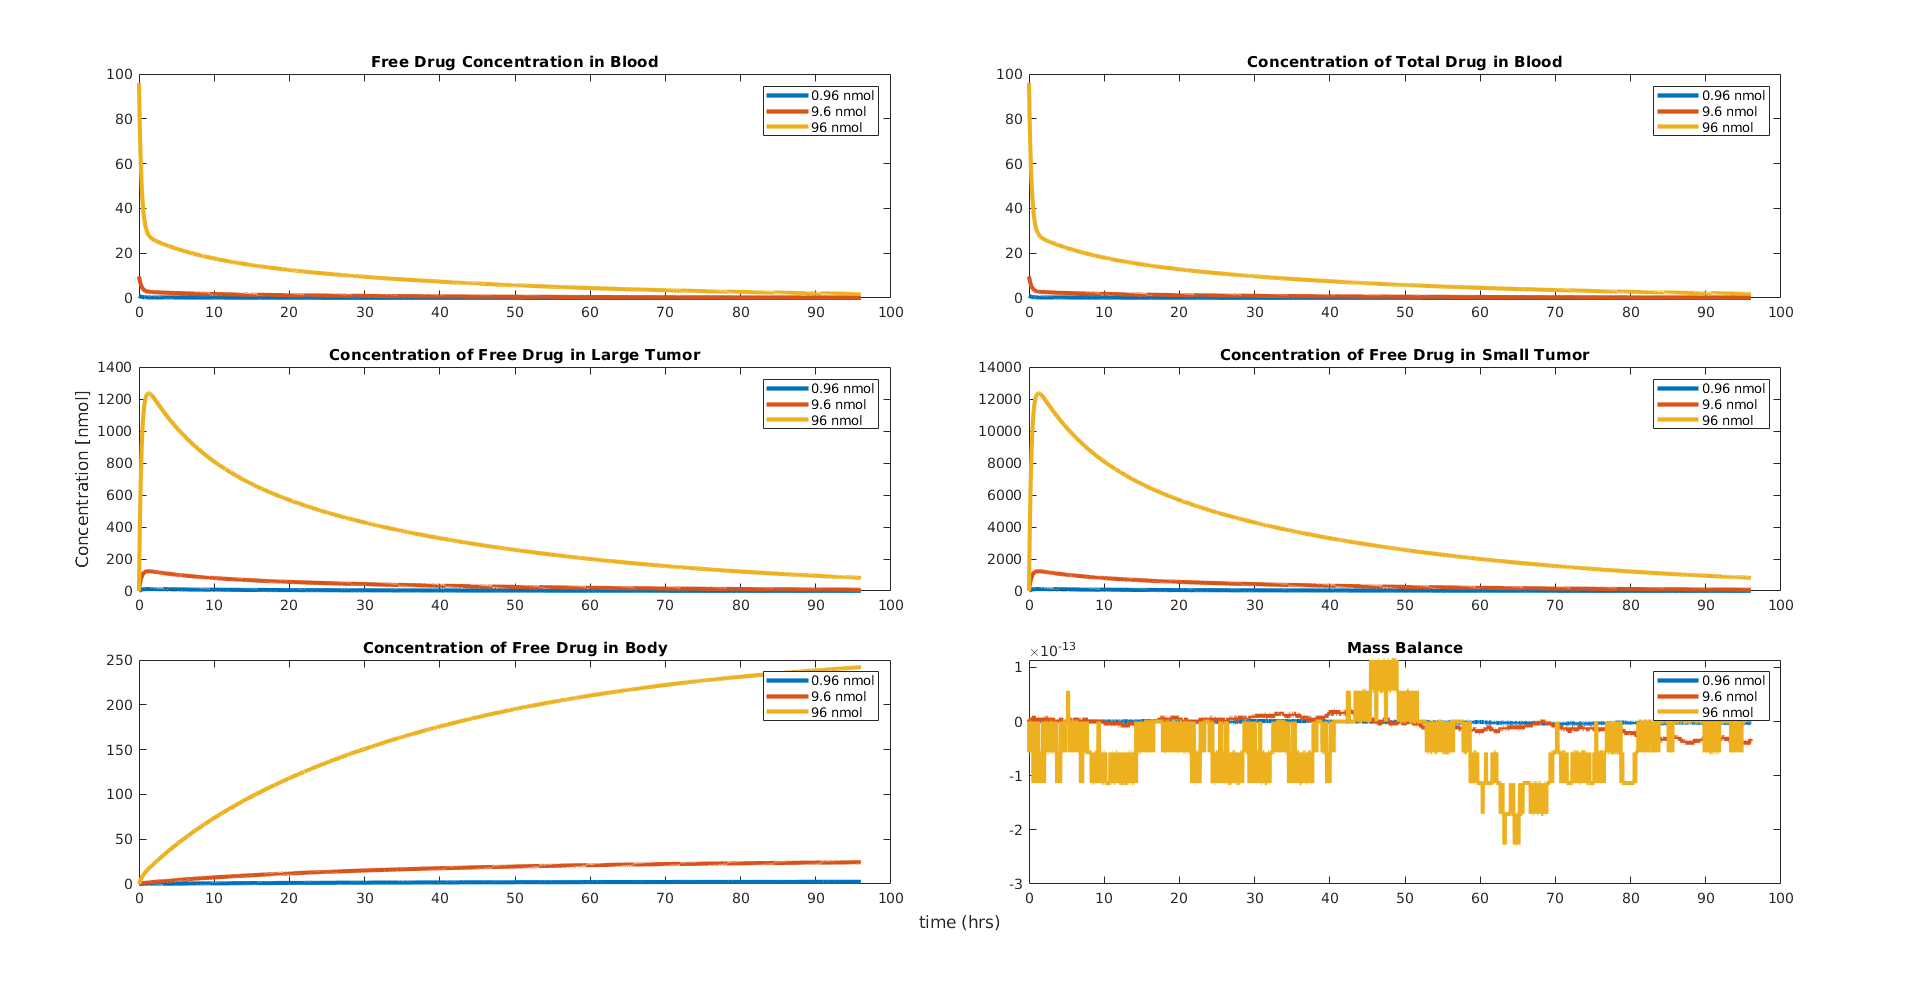
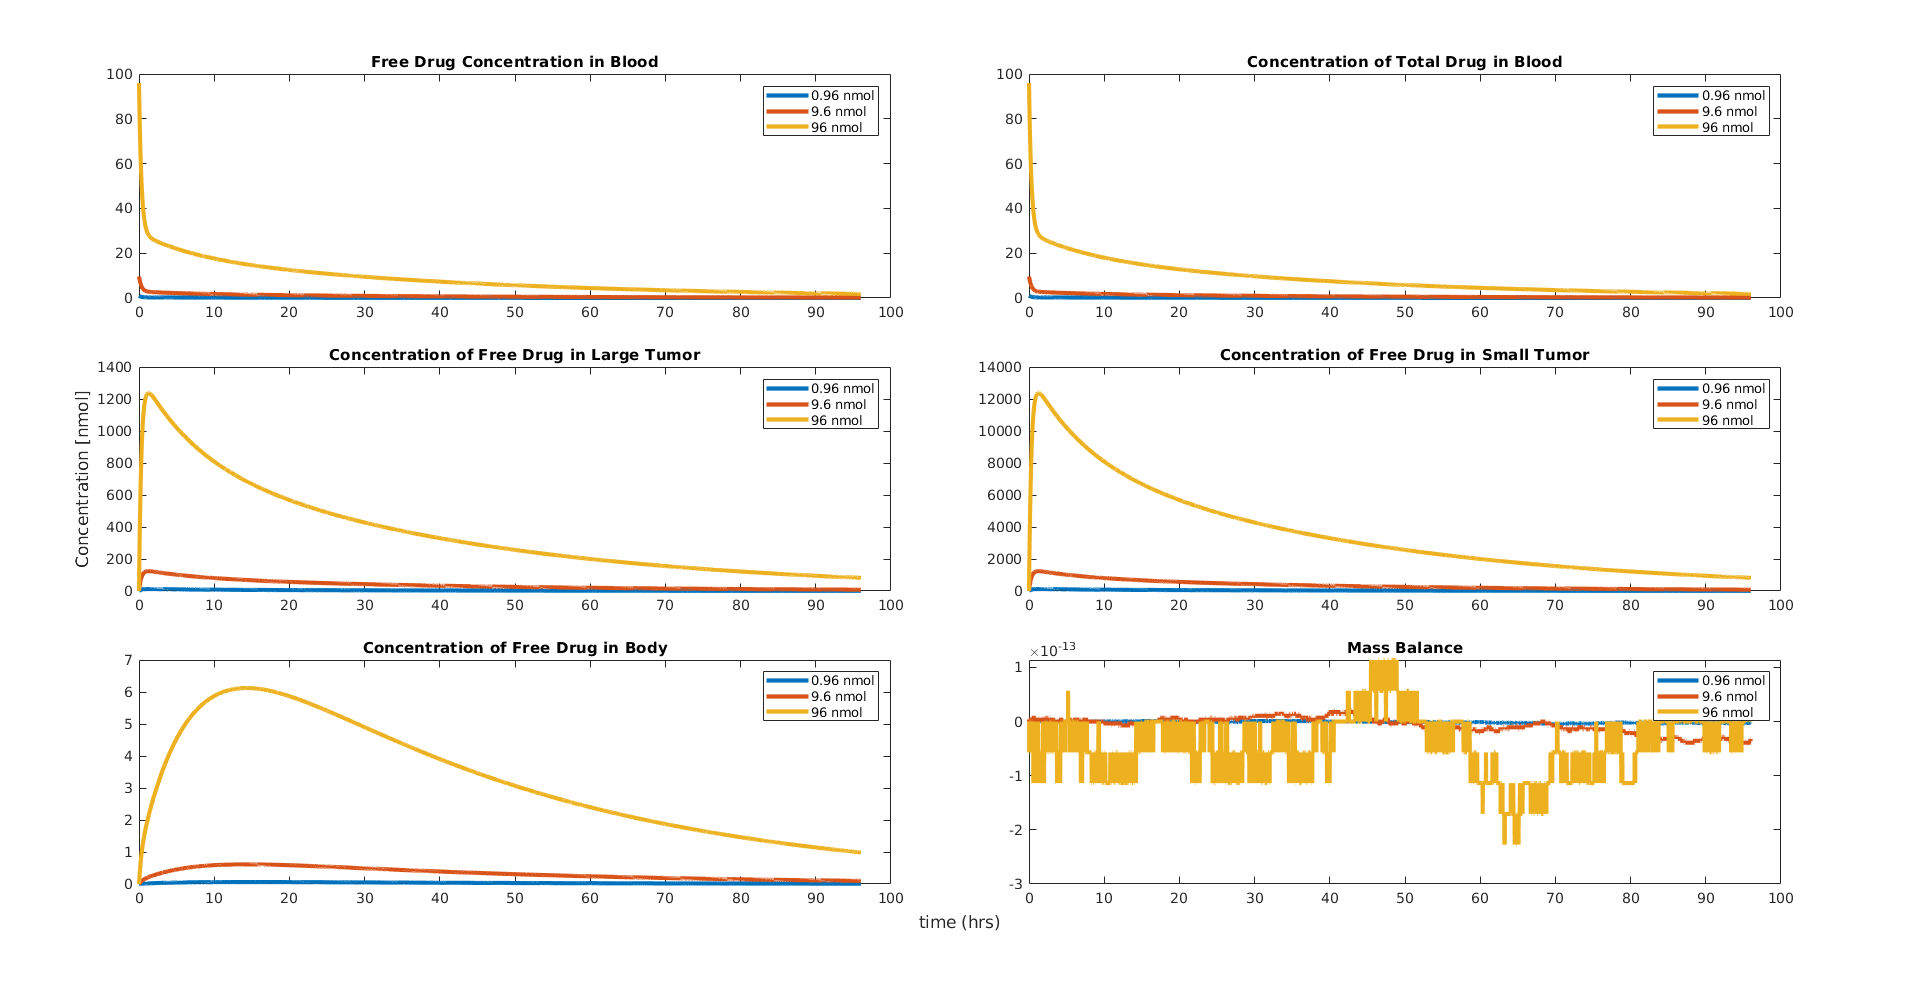
change column used in free drug in body plots because using wrong column

diff --git a/hw/hw1/q2e.m b/hw/hw1/q2e.m
@@ -81,9 +81,9 @@ title("Concentration of Free Drug in Small Tumor");
 
 nexttile;
 plot(...ax5, ...
-    t, y1(:, 6), ...
-    t, y2(:, 6), ...
-    t, y3(:, 6), ...
+    t, y1(:, 5), ...
+    t, y2(:, 5), ...
+    t, y3(:, 5), ...
     'LineWidth', 3 ...
 );
 legend(series_name);

diff --git a/hw/hw1/q2f.m b/hw/hw1/q2f.m
@@ -82,9 +82,9 @@ title("Concentration of Free Drug in Small Tumor");
 
 nexttile;
 plot(...ax5, ...
-    t, y1(:, 6), ...
-    t, y2(:, 6), ...
-    t, y3(:, 6), ...
+    t, y1(:, 5), ...
+    t, y2(:, 5), ...
+    t, y3(:, 5), ...
     'LineWidth', 3 ...
 );
 legend(series_name);
